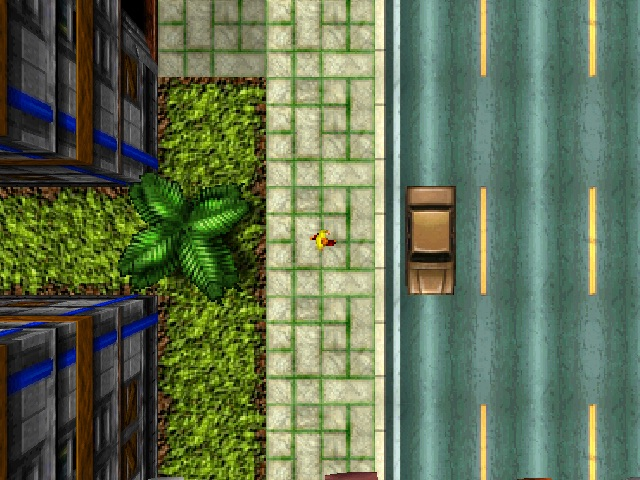
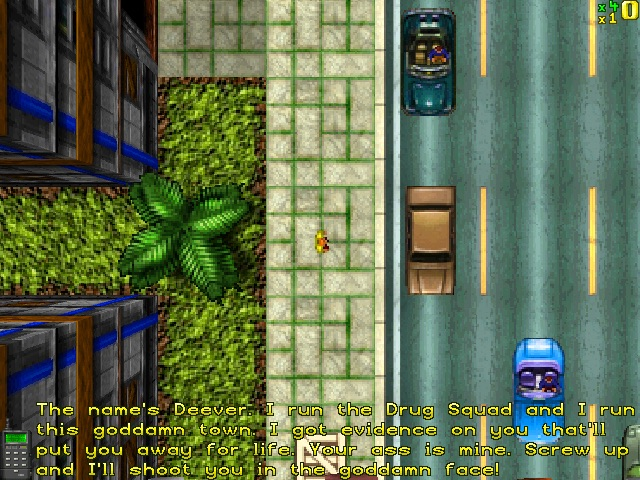
Docs: current state (the whole single-player game runs), releases, new screenshots
Status, README, home page and AGENTS.md describe what runs now; the
status page lists the release downloads; screenshots regenerated, with
the intro movie and driving through traffic added.

Claude-Session: https://claude.ai/code/session_01SHRFj7gfD7G6JH7w26vjyB

diff --git a/docs/index.md b/docs/index.md
@@ -60,10 +60,10 @@ game runtime: the same module natively (`gasm-run`) and in the browser. See
 
 Early. The frontend runs as in the original: the start menu, options, player select and the city and
 mission select, with their sounds and music, and the settings saved like `PLAYER_A.DAT`. Choosing a mission
-starts the level through the ported level start and frame loop. You can walk, get into a car and drive
-through traffic, with the police, trains, explosions, the HUD and the mission script running. Whole
-missions haven't been played through and checked against the original yet. Details in
-[Status](/guide/status).
+starts the level through the ported level start and frame loop. The whole single-player game runs: you can
+walk, steal cars and drive through traffic, with the police, trains, explosions, fire engines, the HUD
+and the mission script. Whole missions haven't been played through and compared with the original yet.
+Details in [Status](/guide/status).
 
 ## Screenshots
 
@@ -71,7 +71,9 @@ All of these are OpenGTA's own output: `opengta.wasm` run headless on the game d
 `tools/screenshots.sh`.
 
 <div class="shots">
+  <figure><img src="/screenshots/intro.jpg" alt="The intro movie: the BMG Interactive logo"><figcaption>The intro movie</figcaption></figure>
   <figure><img src="/screenshots/cities.jpg" alt="The city and mission select over the map of the USA"><figcaption>City and mission select</figcaption></figure>
+  <figure><img src="/screenshots/driving.jpg" alt="Driving a stolen car off the road past traffic in Liberty City"><figcaption>Liberty City: driving through traffic</figcaption></figure>
   <figure><img src="/screenshots/mission1.jpg" alt="The start of the first Liberty City mission: the player next to a parked car"><figcaption>Liberty City, mission 1: the level start</figcaption></figure>
   <figure><img src="/screenshots/mission-miami.jpg" alt="The start of the first Vice City mission"><figcaption>Vice City</figcaption></figure>
   <figure><img src="/screenshots/players.jpg" alt="The player select screen with a portrait"><figcaption>Player select</figcaption></figure>

diff --git a/docs/guide/status.md b/docs/guide/status.md
@@ -1,7 +1,9 @@
 # Status
 
-OpenGTA is **early**. What follows is what runs today; the rest of the original is named and documented
-([reverse-engineering notes](/re/)) but not ported yet.
+OpenGTA is **early but complete in scope**: every part of the single-player game is reimplemented, and the
+whole game runs, from the intro movie through the menus to the three cities with their traffic, police,
+trains and missions. What it still needs is playing: whole missions haven't been played through and
+compared with the original yet, so expect differences and bugs.
 
 ## Ported
 
@@ -32,8 +34,12 @@ OpenGTA is **early**. What follows is what runs today; the rest of the original 
   session can start), in the frontend (`src/front/front_net.c`) and the game core (`src/game/stubs.c`).
 - The 8, 15 and 16 bpp render paths (the port draws the 32 bpp one).
 
-Every function the single-player game calls is ported with its original address; only the network
-layer is a stub, doing what the original does when no network game runs.
+Only the network layer is left out; it does what the original does when no network game runs.
+
+## Releases
+
+Releases ship `opengta-<version>.wasm` and ready-to-run gasm bundles for macOS, Linux and Windows
+([Installing](/guide/install)). The browser player runs the module built from `main`.
 
 ## Versions
 

diff --git a/AGENTS.md b/AGENTS.md
@@ -15,13 +15,9 @@ executable. **Fidelity is the product.** Reproduce the original's behaviour, inc
 If something looks wrong, check the disassembly; if the original does it, keep it and add a comment. Only
 fix deviations *of the port* from the original.
 
-**State:** early. Ported: file layer (directories, the installer's InstallShield cabinets), runtime exe
-tables (`src/exe.c`), every function named in Ghidra (`docs/re/`), map + style, camera, city renderer and
-DMA's rasteriser (32 bpp), sprites, text/fonts/frontend images, the frontend state machine, sound (Miles
-mixer port), game core (`Game_Run`, MISSION.INI loading, entity tables, collision grid), peds/player/input,
-cars and their physics, the mission interpreter, the HUD, traffic and AI drivers, police and emergency
-services, objects/explosions/fires/power-ups, trains, the intro movie (Smacker). Next: play missions
-through and compare with the original, the remaining stubs (`src/game/stubs.c`), fire engines, London.
+**State:** early, complete in scope: every single-player subsystem is ported (see `docs/guide/status.md`);
+`src/game/stubs.c` holds only the DirectPlay layer, which behaves as the original does without a network
+game. Next: play missions through and fix differences from the original; London later (see Expansions).
 
 ## Hard rules
 

diff --git a/README.md b/README.md
@@ -8,9 +8,9 @@ Windows version of the game. It runs as `opengta.wasm`, a module for the
 original code, assets or data: it reads the data files, and the tables of the original game program,
 from your own copy of the game.
 
-**Status: early.** The frontend, the city renderer, sound, the HUD and the mission script run as ported
-from the original; you can walk and drive through traffic, with the police, trains and explosions. Whole missions haven't
-been played through and checked against the original yet. Details: [opengta.emdzej.pl/guide/status](https://opengta.emdzej.pl/guide/status).
+**Status: early.** The whole single-player game runs: the intro movie, the menus, and the three cities
+with traffic, police, trains, explosions, the HUD and the mission script. Whole missions haven't been
+played through and compared with the original yet, so expect differences and bugs. Details: [opengta.emdzej.pl/guide/status](https://opengta.emdzej.pl/guide/status).
 
 ## Game data
 
